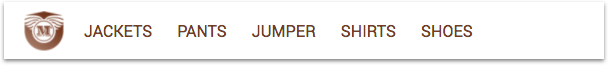
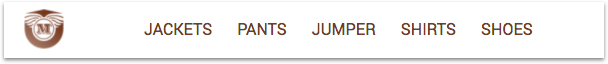
fix: navbar

Changed region(s): [[0.0312, 0.125, 0.875, 0.7812]]

diff --git a/welcome/index.html b/welcome/index.html
@@ -42,9 +42,11 @@
 
 <!--[if !mso]><!-->
     <link href="https://fonts.googleapis.com/css?family=Roboto:300,400,500,700" rel="stylesheet" type="text/css">
+<link href="https://fonts.googleapis.com/css?family=Ubuntu:300,400,500,700" rel="stylesheet" type="text/css">
     <style type="text/css">
 
         @import url(https://fonts.googleapis.com/css?family=Roboto:300,400,500,700);
+  @import url(https://fonts.googleapis.com/css?family=Ubuntu:300,400,500,700);
 
     </style>
   <!--<![endif]--><style type="text/css">
@@ -91,7 +93,18 @@
           width: 100% !important;
         }
       }
-    </style></head>
+    </style><style type="text/css">
+        noinput.mj-menu-checkbox { display:block!important; max-height:none!important; visibility:visible!important; }
+
+        @media only screen and (max-width:480px) {
+          .mj-menu-checkbox[type="checkbox"] ~ .mj-inline-links { display:none!important; }
+          .mj-menu-checkbox[type="checkbox"]:checked ~ .mj-inline-links,
+          .mj-menu-checkbox[type="checkbox"] ~ .mj-menu-trigger { display:block!important; max-width:none!important; max-height:none!important; font-size:inherit!important; }
+          .mj-menu-checkbox[type="checkbox"] ~ .mj-inline-links > a { display:block!important; }
+          .mj-menu-checkbox[type="checkbox"]:checked ~ .mj-menu-trigger .mj-menu-icon-close { display:block!important; }
+          .mj-menu-checkbox[type="checkbox"]:checked ~ .mj-menu-trigger .mj-menu-icon-open { display:none!important; }
+        }
+      </style></head>
 <body>
   <div><!--[if mso | IE]>
       <table role="presentation" border="0" cellpadding="0" cellspacing="0" width="600" align="center" style="width:600px;">
@@ -101,28 +114,30 @@
       <table role="presentation" border="0" cellpadding="0" cellspacing="0"><tr><td style="vertical-align:middle;width:80px;">
       <![endif]--><div class="mj-column-px-80 outlook-group-fix" style="vertical-align:middle;display:inline-block;direction:ltr;font-size:13px;text-align:left;width:100%;"><table role="presentation" cellpadding="0" cellspacing="0" style="vertical-align:middle;" width="100%" border="0"><tbody><tr><td style="word-break:break-word;font-size:0px;padding:10px;" align="center"><table role="presentation" cellpadding="0" cellspacing="0" style="border-collapse:collapse;border-spacing:0px;" align="center" border="0"><tbody><tr><td style="width:40px;"><img alt="" title="" height="auto" src="https://s27.postimg.org/u09gkrbcz/logo_small.png" style="border:none;border-radius:0px;display:block;outline:none;text-decoration:none;width:100%;height:auto;" width="40"></td></tr></tbody></table></td></tr></tbody></table></div><!--[if mso | IE]>
       </td><td style="vertical-align:middle;width:520px;">
-      <![endif]--><div class="mj-column-px-520 outlook-group-fix" style="vertical-align:middle;display:inline-block;direction:ltr;font-size:13px;text-align:left;width:100%;"><table role="presentation" cellpadding="0" cellspacing="0" style="vertical-align:middle;" width="100%" border="0"><tbody><tr><td style="word-break:break-word;font-size:0px;padding:0px;" align="left"><div><div class="mj-inline-links" style="width:100%;text-align:left;"><!--[if gte mso 9]>
-          <table role="presentation" border="0" cellpadding="0" cellspacing="0" align="left">
+      <![endif]--><div class="mj-column-px-520 outlook-group-fix" style="vertical-align:middle;display:inline-block;direction:ltr;font-size:13px;text-align:left;width:100%;"><table role="presentation" cellpadding="0" cellspacing="0" style="vertical-align:middle;" width="100%" border="0"><tbody><tr><td style="word-break:break-word;font-size:0px;padding:0px;" align="center"><div><!--[if !mso]><!-->
+          <input type="checkbox" id="71399e864e9837c6" class="mj-menu-checkbox" style="display:none !important; max-height:0; visibility:hidden;">
+        <!--<![endif]--><div class="mj-menu-trigger" style="display:none;max-height:0px;max-width:0px;font-size:0px;overflow:hidden;"><label for="71399e864e9837c6" class="mj-menu-label" style="display:block;cursor:pointer;mso-hide:all;-moz-user-select:none;user-select:none;text-align:center;color:#763b26;font-size:40px;font-family:Ubuntu, Helvetica, Arial, sans-serif;text-transform:uppercase;text-decoration:none;line-height:30px;padding-top:10px;padding-left:10px;padding-right:10px;padding-bottom:20px;"><span class="mj-menu-icon-open" style="mso-hide:all;">☰</span><span class="mj-menu-icon-close" style="display:none;mso-hide:all;">⊗</span></label></div><div class="mj-inline-links" style="width:100%;text-align:center;"><!--[if gte mso 9]>
+          <table role="presentation" border="0" cellpadding="0" cellspacing="0" align="center">
             <tr>
         <![endif]--><!--[if gte mso 9]>
-          <td style="padding: 0">
-        <![endif]--><a href="/jackets" style="display:inline-block;text-decoration:none;text-transform:uppercase;color:#763b26;font-family:Roboto, Helvetica, Arial, sans-serif;font-size:16px;font-weight:normal;line-height:22px;padding:0px;padding-right:25px;">JACKETS</a><!--[if gte mso 9]>
+          <td style="padding: 12px">
+        <![endif]--><a href="/jackets" style="display:inline-block;text-decoration:none;text-transform:uppercase;color:#763b26;font-family:Roboto, Helvetica, Arial, sans-serif;font-size:16px;font-weight:normal;line-height:22px;padding:12px;">JACKETS</a><!--[if gte mso 9]>
           </td>
         <![endif]--><!--[if gte mso 9]>
-          <td style="padding: 0">
-        <![endif]--><a href="/try-it-live" style="display:inline-block;text-decoration:none;text-transform:uppercase;color:#763b26;font-family:Roboto, Helvetica, Arial, sans-serif;font-size:16px;font-weight:normal;line-height:22px;padding:0px;padding-right:25px;">PANTS</a><!--[if gte mso 9]>
+          <td style="padding: 12px">
+        <![endif]--><a href="/pants" style="display:inline-block;text-decoration:none;text-transform:uppercase;color:#763b26;font-family:Roboto, Helvetica, Arial, sans-serif;font-size:16px;font-weight:normal;line-height:22px;padding:12px;">PANTS</a><!--[if gte mso 9]>
           </td>
         <![endif]--><!--[if gte mso 9]>
-          <td style="padding: 0">
-        <![endif]--><a href="/templates" style="display:inline-block;text-decoration:none;text-transform:uppercase;color:#763b26;font-family:Roboto, Helvetica, Arial, sans-serif;font-size:16px;font-weight:normal;line-height:22px;padding:0px;padding-right:25px;">JUMPER</a><!--[if gte mso 9]>
+          <td style="padding: 12px">
+        <![endif]--><a href="/jumper" style="display:inline-block;text-decoration:none;text-transform:uppercase;color:#763b26;font-family:Roboto, Helvetica, Arial, sans-serif;font-size:16px;font-weight:normal;line-height:22px;padding:12px;">JUMPER</a><!--[if gte mso 9]>
           </td>
         <![endif]--><!--[if gte mso 9]>
-          <td style="padding: 0">
-        <![endif]--><a href="/components" style="display:inline-block;text-decoration:none;text-transform:uppercase;color:#763b26;font-family:Roboto, Helvetica, Arial, sans-serif;font-size:16px;font-weight:normal;line-height:22px;padding:0px;padding-right:25px;">SHIRTS</a><!--[if gte mso 9]>
+          <td style="padding: 12px">
+        <![endif]--><a href="/shirts" style="display:inline-block;text-decoration:none;text-transform:uppercase;color:#763b26;font-family:Roboto, Helvetica, Arial, sans-serif;font-size:16px;font-weight:normal;line-height:22px;padding:12px;">SHIRTS</a><!--[if gte mso 9]>
           </td>
         <![endif]--><!--[if gte mso 9]>
-          <td style="padding: 0">
-        <![endif]--><a href="/documentation" style="display:inline-block;text-decoration:none;text-transform:uppercase;color:#763b26;font-family:Roboto, Helvetica, Arial, sans-serif;font-size:16px;font-weight:normal;line-height:22px;padding:0px;padding-right:25px;">SHOES</a><!--[if gte mso 9]>
+          <td style="padding: 12px">
+        <![endif]--><a href="/shoes" style="display:inline-block;text-decoration:none;text-transform:uppercase;color:#763b26;font-family:Roboto, Helvetica, Arial, sans-serif;font-size:16px;font-weight:normal;line-height:22px;padding:12px;">SHOES</a><!--[if gte mso 9]>
           </td>
         <![endif]--><!--[if gte mso 9]>
             </tr>
@@ -138,9 +153,9 @@
           <td style="line-height:0px;font-size:0px;mso-line-height-rule:exactly;">
       <![endif]--><div style="display:none">
         {% set gender = var:user.gender %}
-        {% set background-url = "https://s13.postimg.org/47hn9ykuv/hero-girl.png" %}
+        {% set background-url = "http://bit.ly/mj-tpl-tuto-hero-girl" %}
         {% if gender == "male" %}
-          {% set background-url = "https://s23.postimg.org/vwj30honv/hero.png" %}
+          {% set background-url = "http://bit.ly/mj-tpl-tuto-hero" %}
         {% endif %}
         </div><!--[if mso | IE]>
           <v:image xmlns:v="urn:schemas-microsoft-com:vml" croptop="0" cropbottom="0" style="width:450pt;height:192pt;position:absolute;top:0;mso-position-horizontal:center;border:0;z-index:-3;" src="{{ background-url }}" />
@@ -230,11 +245,11 @@
       <table role="presentation" border="0" cellpadding="0" cellspacing="0"><tr><td style="vertical-align:top;width:600px;">
       <![endif]--><div class="mj-column-per-100 outlook-group-fix" style="vertical-align:top;display:inline-block;direction:ltr;font-size:13px;text-align:left;width:100%;"><table role="presentation" cellpadding="0" cellspacing="0" width="100%" border="0"><tbody><tr><td style="word-break:break-word;font-size:0px;padding:0px;" align="center"><div><!--[if mso | IE]>
       <table role="presentation" border="0" cellpadding="0" cellspacing="0" align="undefined"><tr><td>
-      <![endif]--><table role="presentation" cellpadding="0" cellspacing="0" style="float:none;display:inline-table;" align="center" border="0"><tbody><tr><td style="padding:15px;vertical-align:middle;"><table role="presentation" cellpadding="0" cellspacing="0" style="background:#ffffff;border-radius:0px;width:20px;" border="0"><tbody><tr><td style="vertical-align:middle;width:20px;height:20px;"><a href="twitter page"><img alt="my-twitter" height="20" src="https://s8.postimg.org/ecqv6badh/twitter.png" style="display:block;border-radius:0px;" width="20"></a></td></tr></tbody></table></td><td style="padding:4px 4px 4px 0;vertical-align:middle;"><a href="twitter page" style="text-decoration:none;text-align:left;display:block;color:#763b26;font-family:Roboto, Helvetica, Arial, sans-serif;font-size:13px;line-height:22px;border-radius:0px;">TWITTER</a></td></tr></tbody></table><!--[if mso | IE]>
+      <![endif]--><table role="presentation" cellpadding="0" cellspacing="0" style="float:none;display:inline-table;" align="center" border="0"><tbody><tr><td style="padding:15px;vertical-align:middle;"><table role="presentation" cellpadding="0" cellspacing="0" style="background:#ffffff;border-radius:0px;width:20px;" border="0"><tbody><tr><td style="vertical-align:middle;width:20px;height:20px;"><a href="twitter page"><img alt="my-twitter" height="20" src="http://bit.ly/mj-tpl-tuto-twitter" style="display:block;border-radius:0px;" width="20"></a></td></tr></tbody></table></td><td style="padding:4px 4px 4px 0;vertical-align:middle;"><a href="twitter page" style="text-decoration:none;text-align:left;display:block;color:#763b26;font-family:Roboto, Helvetica, Arial, sans-serif;font-size:13px;line-height:22px;border-radius:0px;">TWITTER</a></td></tr></tbody></table><!--[if mso | IE]>
       </td><td>
-      <![endif]--><table role="presentation" cellpadding="0" cellspacing="0" style="float:none;display:inline-table;" align="center" border="0"><tbody><tr><td style="padding:15px;vertical-align:middle;"><table role="presentation" cellpadding="0" cellspacing="0" style="background:#ffffff;border-radius:0px;width:20px;" border="0"><tbody><tr><td style="vertical-align:middle;width:20px;height:20px;"><a href="instagram page"><img alt="my-instagram" height="20" src="https://s12.postimg.org/rgiqvmcfx/instagram.png" style="display:block;border-radius:0px;" width="20"></a></td></tr></tbody></table></td><td style="padding:4px 4px 4px 0;vertical-align:middle;"><a href="instagram page" style="text-decoration:none;text-align:left;display:block;color:#763b26;font-family:Roboto, Helvetica, Arial, sans-serif;font-size:13px;line-height:22px;border-radius:0px;">INSTAGRAM</a></td></tr></tbody></table><!--[if mso | IE]>
+      <![endif]--><table role="presentation" cellpadding="0" cellspacing="0" style="float:none;display:inline-table;" align="center" border="0"><tbody><tr><td style="padding:15px;vertical-align:middle;"><table role="presentation" cellpadding="0" cellspacing="0" style="background:#ffffff;border-radius:0px;width:20px;" border="0"><tbody><tr><td style="vertical-align:middle;width:20px;height:20px;"><a href="instagram page"><img alt="my-instagram" height="20" src="http://bit.ly/mj-tpl-tuto-instagram" style="display:block;border-radius:0px;" width="20"></a></td></tr></tbody></table></td><td style="padding:4px 4px 4px 0;vertical-align:middle;"><a href="instagram page" style="text-decoration:none;text-align:left;display:block;color:#763b26;font-family:Roboto, Helvetica, Arial, sans-serif;font-size:13px;line-height:22px;border-radius:0px;">INSTAGRAM</a></td></tr></tbody></table><!--[if mso | IE]>
       </td><td>
-      <![endif]--><table role="presentation" cellpadding="0" cellspacing="0" style="float:none;display:inline-table;" align="center" border="0"><tbody><tr><td style="padding:15px;vertical-align:middle;"><table role="presentation" cellpadding="0" cellspacing="0" style="background:#ffffff;border-radius:0px;width:20px;" border="0"><tbody><tr><td style="vertical-align:middle;width:20px;height:20px;"><a href="facebook page"><img alt="my-facebook" height="20" src="https://s1.postimg.org/i81unc3dr/facebook.png" style="display:block;border-radius:0px;" width="20"></a></td></tr></tbody></table></td><td style="padding:4px 4px 4px 0;vertical-align:middle;"><a href="facebook page" style="text-decoration:none;text-align:left;display:block;color:#763b26;font-family:Roboto, Helvetica, Arial, sans-serif;font-size:13px;line-height:22px;border-radius:0px;">FACEBOOK</a></td></tr></tbody></table><!--[if mso | IE]>
+      <![endif]--><table role="presentation" cellpadding="0" cellspacing="0" style="float:none;display:inline-table;" align="center" border="0"><tbody><tr><td style="padding:15px;vertical-align:middle;"><table role="presentation" cellpadding="0" cellspacing="0" style="background:#ffffff;border-radius:0px;width:20px;" border="0"><tbody><tr><td style="vertical-align:middle;width:20px;height:20px;"><a href="facebook page"><img alt="my-facebook" height="20" src="http://bit.ly/mj-tpl-tuto-facebook" style="display:block;border-radius:0px;" width="20"></a></td></tr></tbody></table></td><td style="padding:4px 4px 4px 0;vertical-align:middle;"><a href="facebook page" style="text-decoration:none;text-align:left;display:block;color:#763b26;font-family:Roboto, Helvetica, Arial, sans-serif;font-size:13px;line-height:22px;border-radius:0px;">FACEBOOK</a></td></tr></tbody></table><!--[if mso | IE]>
       </td></tr></table>
       <![endif]--></div></td></tr></tbody></table></div><!--[if mso | IE]>
       </td></tr></table>
@@ -260,11 +275,11 @@
       <table role="presentation" border="0" cellpadding="0" cellspacing="0"><tr><td style="vertical-align:top;width:600px;">
       <![endif]--><div class="mj-column-per-100" style="vertical-align:top;display:inline-block;font-size:0px;line-height:0px;text-align:left;width:100%;"><!--[if mso | IE]>
       <table  role="presentation" border="0" cellpadding="0" cellspacing="0"><tr><td style="vertical-align:middle;width:180px;">
-      <![endif]--><div class="mj-column-per-30 outlook-group-fix" style="vertical-align:middle;display:inline-block;direction:ltr;font-size:13px;text-align:left;width:30%;"><table role="presentation" cellpadding="0" cellspacing="0" style="vertical-align:middle;" width="100%" border="0"><tbody><tr><td style="word-break:break-word;font-size:0px;padding:0px;" align="right"><table role="presentation" cellpadding="0" cellspacing="0" style="border-collapse:collapse;border-spacing:0px;" align="right" border="0"><tbody><tr><td style="width:50px;"><img alt="logo" title="" height="auto" src="https://s13.postimg.org/6d1pbbkdv/logo.png" style="border:none;border-radius:0px;display:block;outline:none;text-decoration:none;width:100%;height:auto;" width="50"></td></tr></tbody></table></td></tr></tbody></table></div><!--[if mso | IE]>
+      <![endif]--><div class="mj-column-per-30 outlook-group-fix" style="vertical-align:middle;display:inline-block;direction:ltr;font-size:13px;text-align:left;width:30%;"><table role="presentation" cellpadding="0" cellspacing="0" style="vertical-align:middle;" width="100%" border="0"><tbody><tr><td style="word-break:break-word;font-size:0px;padding:0px;" align="right"><table role="presentation" cellpadding="0" cellspacing="0" style="border-collapse:collapse;border-spacing:0px;" align="right" border="0"><tbody><tr><td style="width:50px;"><img alt="logo" title="" height="auto" src="http://bit.ly/mj-tpl-tuto-logo-full" style="border:none;border-radius:0px;display:block;outline:none;text-decoration:none;width:100%;height:auto;" width="50"></td></tr></tbody></table></td></tr></tbody></table></div><!--[if mso | IE]>
     </td><td style="vertical-align:middle;width:420px;">
       <![endif]--><div class="mj-column-per-70 outlook-group-fix" style="vertical-align:middle;display:inline-block;direction:ltr;font-size:13px;text-align:left;width:70%;"><table role="presentation" cellpadding="0" cellspacing="0" style="vertical-align:middle;" width="100%" border="0"><tbody><tr><td style="word-break:break-word;font-size:0px;padding:0px;padding-left:20px;" align="left"><div class="" style="cursor:auto;color:#333333;font-family:Roboto, Helvetica, Arial, sans-serif;font-size:13px;line-height:22px;text-align:left;"><span style="font-style:italic">
                 <a href="#" target="_blank">Any question?</a> 
-                <a href="#" target="_blank" style="color: #763b26; text-decoration: none">www.clothes-men.com</a>
+                <a href="#" target="_blank" style="color: #763b26; text-decoration: none">clothes-men</a>
               </span>
               <span style="color: #763b26"> • <a href="#" style="color: #763b26; text-decoration: none; font-weight: bold">Unsubscribe</a></span></div></td></tr></tbody></table></div><!--[if mso | IE]>
       </td></tr></table>
